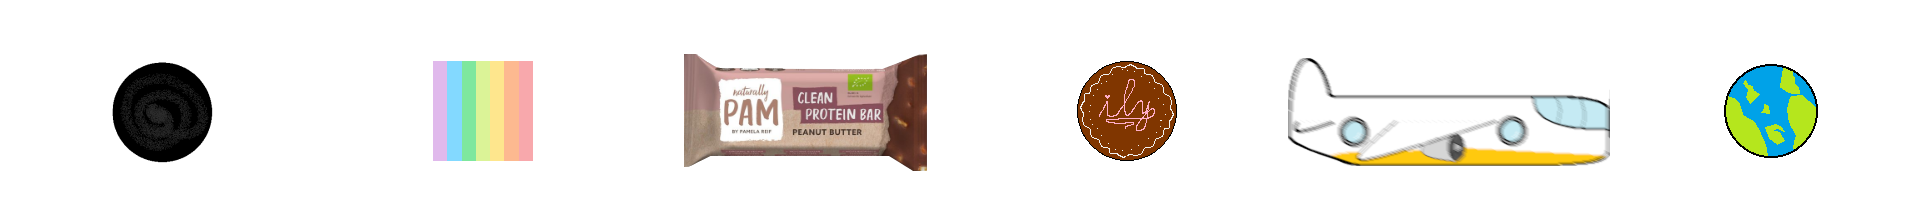
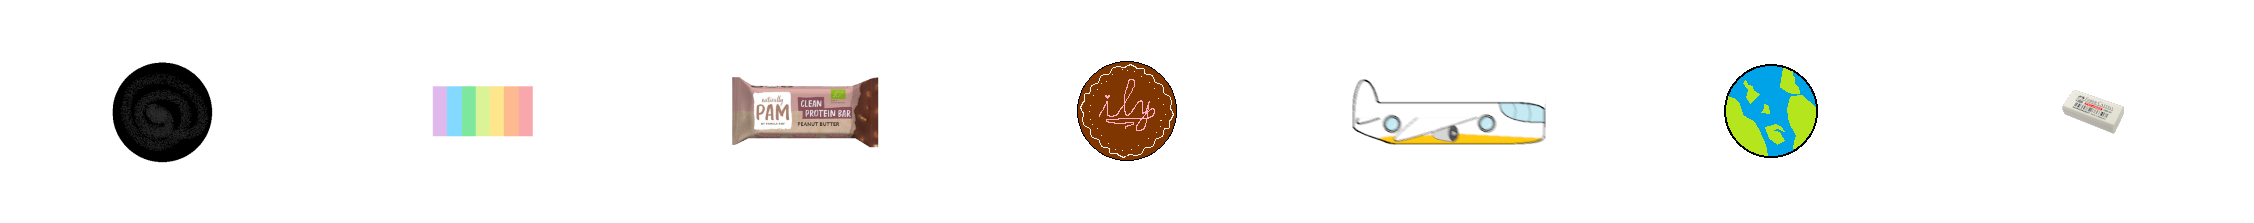
revamped ui collisions and eraser equips

diff --git a/src/structure_ui.rs b/src/structure_ui.rs
@@ -1,5 +1,6 @@
 use crate::{mouse::EditorTool, CombinedSheet, EraserSheet, GameState, PrimaryWindow};
 use bevy::prelude::*;
+use bevy::sprite::collide_aabb::collide;
 
 #[derive(Component)]
 struct EditorButton {
@@ -7,60 +8,125 @@ struct EditorButton {
 }
 
 #[derive(Component)]
+struct EraserButton;
+
+#[derive(Component)]
 struct Selected;
+
+#[derive(Component)]
+pub struct UISprite {
+    sprite_size: Vec2,
+}
 
 pub struct StructureUIPlugin;
 
 impl Plugin for StructureUIPlugin {
     fn build(&self, app: &mut App) {
-        app.add_systems(
-            OnEnter(GameState::Building),
-            (spawn_main_buttons, spawn_eraser),
-        )
-        .add_systems(
-            Update,
-            (unselected_button_interaction, selected_button_interaction)
-                .run_if(in_state(GameState::Building)),
-        );
+        app.add_systems(Startup, (spawn_main_buttons, spawn_eraser))
+            .add_systems(
+                Update,
+                (
+                    unselected_button_interaction,
+                    selected_button_interaction,
+                    eraser_button_interaction,
+                ),
+            );
     }
+}
+
+fn eraser_button_interaction(
+    mut next: ResMut<NextState<GameState>>,
+    state: Res<State<GameState>>,
+    mut eraser_button_q: Query<
+        (&Interaction, &mut BackgroundColor),
+        (Changed<Interaction>, With<EraserButton>),
+    >,
+    mut editor_tool_query: Query<(&mut TextureAtlasSprite), With<EditorTool>>,
+) {
+    for (interaction, mut color) in &mut eraser_button_q {
+        match *interaction {
+            Interaction::Pressed => {
+                *color = Color::rgba(1., 0.8, 0.9, 0.9).into();
+                if state.get() != &GameState::Erasing {
+                    for mut sprite in editor_tool_query.iter_mut() {
+                        sprite.index = 6;
+                    }
+                    next.set(GameState::Erasing);
+                }
+            }
+            Interaction::Hovered => {
+                *color = Color::rgba(1., 0.8, 0.9, 0.8).into();
+            }
+            Interaction::None => {
+                *color = Color::rgba(1., 0.8, 0.9, 0.6).into();
+            }
+        }
+    }
+}
+
+pub fn overlaps_ui(
+    player_trans: &Transform,
+    ui_q: &Query<(&Transform, &UISprite), With<UISprite>>,
+) -> bool {
+    let player_translation = player_trans.translation;
+    for (trans, uisprite) in ui_q.iter() {
+        let ui_trans = trans.translation;
+        let ui_size = uisprite.sprite_size;
+        if collide(player_translation, Vec2::splat(1.), ui_trans, ui_size).is_some() {
+            return true;
+        }
+    }
+    return false;
 }
 
 fn spawn_eraser(
     mut commands: Commands,
-    eraser_texture: Res<EraserSheet>,
-    assets: Res<AssetServer>,
+    sheet: Res<EraserSheet>,
     q_windows: Query<&Window, With<PrimaryWindow>>,
+    assets: Res<Assets<TextureAtlas>>,
 ) {
-    commands.spawn(ButtonBundle {
-        style: Style {
-            position_type: PositionType::Absolute,
-            width: Val::Px(80.),
-            height: Val::Px(80.),
-            right: Val::Percent(3.),
-            top: Val::Percent(3.),
-            border: UiRect::all(Val::Px(3.)),
+    commands
+        .spawn(ButtonBundle {
+            style: Style {
+                position_type: PositionType::Absolute,
+                width: Val::Px(80.),
+                height: Val::Px(80.),
+                right: Val::Percent(3.),
+                top: Val::Percent(3.),
+                border: UiRect::all(Val::Px(3.)),
+                ..default()
+            },
+            //image: assets.load("eraser.png").into(),
+            border_color: Color::rgba(0., 0., 0., 1.0).into(),
+            background_color: Color::NONE.into(),
             ..default()
-        },
-        //image: assets.load("eraser.png").into(),
-        border_color: Color::rgba(0., 0., 0., 1.0).into(),
-        background_color: Color::NONE.into(),
-        ..default()
-    });
+        })
+        .insert(EraserButton);
 
     let window = q_windows.single();
     let (w_width, w_height) = (window.width(), window.height());
+    let scale = 80. / 256.;
 
-    commands.spawn(SpriteSheetBundle {
-        sprite: TextureAtlasSprite::new(0),
-        texture_atlas: eraser_texture.0.clone(),
-        transform: Transform {
-            translation: Vec3::new(w_width * 0.47 - 40., w_height * 0.47 - 40., 0.),
-            scale: Vec3::splat(80. / 256.),
+    let texture = assets.get(&sheet.0).unwrap();
+    let sprite_width = texture.size.x / texture.textures.len() as f32;
+    let sprite_height = texture.size.y;
+
+    commands
+        .spawn(SpriteSheetBundle {
+            sprite: TextureAtlasSprite::new(0),
+            texture_atlas: sheet.0.clone(),
+            transform: Transform {
+                translation: Vec3::new(w_width * 0.47 - 40., w_height * 0.47 - 40., 900.),
+                scale: Vec3::splat(scale),
+                ..Default::default()
+            },
             ..Default::default()
-        },
-        ..Default::default()
-    });
+        })
+        .insert(UISprite {
+            sprite_size: Vec2::new(sprite_width * scale, sprite_height * scale),
+        });
 }
+
 ///Spawns clickable background button together with the "How to play" button as its child
 /// # Arguments
 /// * `commands` - [Commands].
@@ -69,6 +135,7 @@ fn spawn_main_buttons(
     mut commands: Commands,
     sheet: Res<CombinedSheet>,
     q_windows: Query<&Window, With<PrimaryWindow>>,
+    assets: Res<Assets<TextureAtlas>>,
 ) {
     let window = q_windows.single();
     let (w_width, w_height) = (window.width(), window.height());
@@ -115,21 +182,29 @@ fn spawn_main_buttons(
             }
         });
 
+    let texture = assets.get(&sheet.0).unwrap();
+    let sprite_width = texture.size.x / texture.textures.len() as f32;
+    let sprite_height = texture.size.y;
+
     for i in 0..6 {
-        commands.spawn(SpriteSheetBundle {
-            texture_atlas: sheet.0.clone(),
-            sprite: TextureAtlasSprite::new(i),
-            transform: Transform {
-                translation: Vec3::new(
-                    w_width * -0.5 + w_width / 6. * (i as f32 + 0.5),
-                    w_height * -0.5 + 50.,
-                    900.0,
-                ),
-                scale: Vec3::splat(w_width / 1932.),
+        commands
+            .spawn(SpriteSheetBundle {
+                texture_atlas: sheet.0.clone(),
+                sprite: TextureAtlasSprite::new(i),
+                transform: Transform {
+                    translation: Vec3::new(
+                        w_width * -0.5 + w_width / 6. * (i as f32 + 0.5),
+                        w_height * -0.5 + 50.,
+                        900.0,
+                    ),
+                    scale: Vec3::splat(w_width / texture.size.x),
+                    ..Default::default()
+                },
                 ..Default::default()
-            },
-            ..Default::default()
-        });
+            })
+            .insert(UISprite {
+                sprite_size: Vec2::new(sprite_width, sprite_height),
+            });
     }
 }
 
@@ -141,35 +216,34 @@ fn spawn_main_buttons(
 /// * `state` - Resource containing [State]. This game's states are defined in the [GameState] enum.
 fn unselected_button_interaction(
     mut commands: Commands,
-    mut previously_selected: Query<
-        (&mut BackgroundColor, Entity),
-        (With<Selected>, With<EditorButton>),
-    >,
+    mut selected: Query<(&mut BackgroundColor, Entity), (With<Selected>, With<EditorButton>)>,
     mut non_selected: Query<
         (&Interaction, &mut BackgroundColor, Entity, &EditorButton),
         (Changed<Interaction>, With<EditorButton>, Without<Selected>),
     >,
-    mut editor_tool_query: Query<(&mut TextureAtlasSprite, &mut Transform), With<EditorTool>>,
+    mut editor_tool_query: Query<&mut TextureAtlasSprite, With<EditorTool>>,
+    mut next: ResMut<NextState<GameState>>,
+    state: Res<State<GameState>>,
 ) {
     let idle_color = Color::NONE.into();
     for (interaction, mut color, entity, button_index) in &mut non_selected {
         match *interaction {
             Interaction::Pressed => {
-                for (mut color, previously_selected_button) in &mut previously_selected {
-                    commands
-                        .entity(previously_selected_button)
-                        .remove::<Selected>();
+                if state.get() != &GameState::Building {
+                    next.set(GameState::Building);
+                }
+
+                for (mut color, selected_button) in &mut selected {
+                    commands.entity(selected_button).remove::<Selected>();
                     *color = idle_color;
                 }
+
                 commands.entity(entity).insert(Selected);
+
                 *color = Color::rgba(0., 0., 0., 0.6).into();
-                for (mut sprite, mut transform) in editor_tool_query.iter_mut() {
+
+                for mut sprite in editor_tool_query.iter_mut() {
                     sprite.index = button_index.index;
-                    if button_index.index == 2 || button_index.index == 4 {
-                        transform.scale = Vec3::splat(0.6);
-                    } else {
-                        transform.scale = Vec3::splat(1.);
-                    }
                 }
             }
             Interaction::Hovered => {

diff --git a/src/main.rs b/src/main.rs
@@ -16,6 +16,7 @@ pub const RESOLUTION: f32 = 1920. / 1080.;
 pub enum GameState {
     #[default]
     Building,
+    Erasing,
 }
 
 ///[Handle] for eraser [TextureAtlas].
@@ -170,7 +171,7 @@ fn load_all(
             Some(Vec2::splat(10.0)),
             Some(Vec2::splat(10.0)),
         ),
-        SheetInfo::new("combined_sheet.png", 1932. / 6., 223., 6, 1, None, None),
+        SheetInfo::new("combined_sheet.png", 2254. / 7., 223., 7, 1, None, None),
         SheetInfo::new("eraser.png", 256., 256., 1, 1, None, None),
     ];
     for sheet in init_arr {
